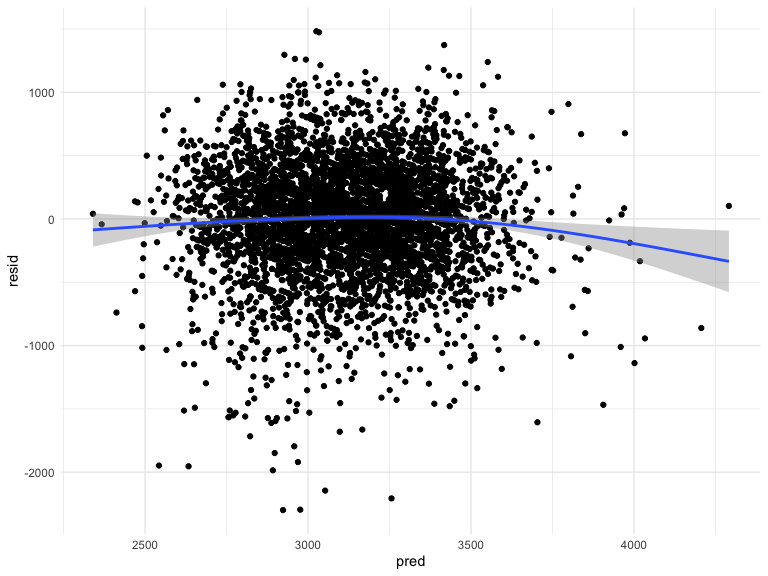
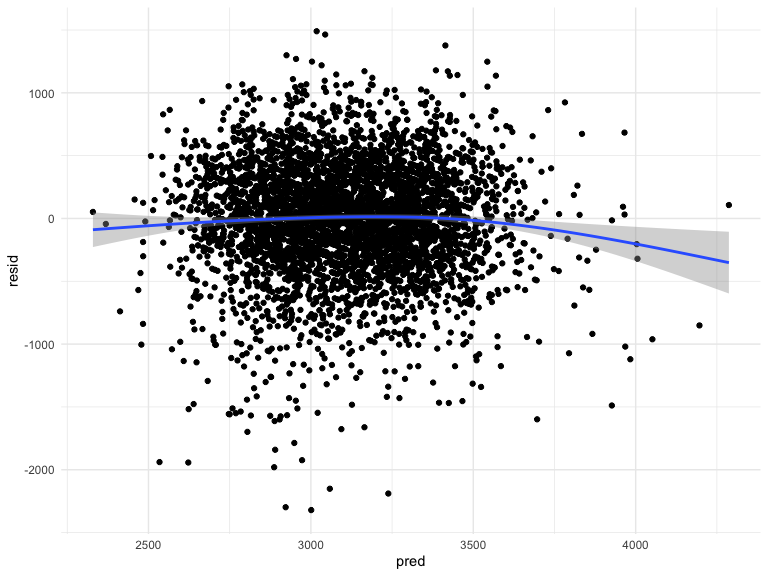
Problem 2

diff --git a/p8105_hw6_sl5009.md b/p8105_hw6_sl5009.md
@@ -101,71 +101,73 @@ summary(fit_0)
     ## F-statistic: 524.6 on 21 and 4320 DF,  p-value: < 2.2e-16
 
 ``` r
-fit_1 = lm(bwt ~ delwt + menarche + mheight + momage + mrace + smoken + wtgain + parity, data = birthweight_df)
+fit_1 = lm(bwt ~ delwt + menarche + fincome + mheight + momage + mrace + smoken + wtgain + parity, data = birthweight_df)
 summary(fit_1)
 ```
 
     ## 
     ## Call:
-    ## lm(formula = bwt ~ delwt + menarche + mheight + momage + mrace + 
-    ##     smoken + wtgain + parity, data = birthweight_df)
+    ## lm(formula = bwt ~ delwt + menarche + fincome + mheight + momage + 
+    ##     mrace + smoken + wtgain + parity, data = birthweight_df)
     ## 
     ## Residuals:
     ##      Min       1Q   Median       3Q      Max 
-    ## -2299.04  -254.35    20.92   298.27  1482.60 
+    ## -2321.11  -253.72    19.88   296.77  1490.11 
     ## 
     ## Coefficients:
     ##                    Estimate Std. Error t value Pr(>|t|)    
-    ## (Intercept)       1330.2347   191.8528   6.934 4.71e-12 ***
-    ## delwt                4.3133     0.3863  11.166  < 2e-16 ***
-    ## menarche            -4.8334     4.7805  -1.011 0.312036    
-    ## mheight             17.2433     2.9589   5.828 6.03e-09 ***
-    ## momage               4.1406     1.9672   2.105 0.035363 *  
-    ## mraceBlack        -265.8683    71.3360  -3.727 0.000196 ***
-    ## mracePuerto Rican  -67.2740    75.8915  -0.886 0.375425    
-    ## mraceWhite          74.5246    70.6195   1.055 0.291348    
-    ## smoken             -12.1372     0.9578 -12.672  < 2e-16 ***
-    ## wtgain               7.7928     0.7086  10.997  < 2e-16 ***
-    ## parity             -34.7375    66.7017  -0.521 0.602541    
+    ## (Intercept)       1342.1583   192.0008   6.990 3.16e-12 ***
+    ## delwt                4.3281     0.3864  11.202  < 2e-16 ***
+    ## menarche            -4.4493     4.7870  -0.929 0.352707    
+    ## fincome              0.4333     0.2963   1.462 0.143707    
+    ## mheight             16.8977     2.9679   5.693 1.33e-08 ***
+    ## momage               3.4912     2.0164   1.731 0.083457 .  
+    ## mraceBlack        -265.1003    71.3285  -3.717 0.000204 ***
+    ## mracePuerto Rican  -67.5719    75.8818  -0.890 0.373253    
+    ## mraceWhite          67.9757    70.7521   0.961 0.336727    
+    ## smoken             -12.1012     0.9580 -12.632  < 2e-16 ***
+    ## wtgain               7.7877     0.7085  10.991  < 2e-16 ***
+    ## parity             -31.1449    66.7382  -0.467 0.640757    
     ## ---
     ## Signif. codes:  0 '***' 0.001 '**' 0.01 '*' 0.05 '.' 0.1 ' ' 1
     ## 
-    ## Residual standard error: 451.2 on 4331 degrees of freedom
-    ## Multiple R-squared:  0.2256, Adjusted R-squared:  0.2238 
-    ## F-statistic: 126.2 on 10 and 4331 DF,  p-value: < 2.2e-16
+    ## Residual standard error: 451.2 on 4330 degrees of freedom
+    ## Multiple R-squared:  0.226,  Adjusted R-squared:  0.224 
+    ## F-statistic: 114.9 on 11 and 4330 DF,  p-value: < 2.2e-16
 
 ``` r
-fit_2 = lm(bwt ~ delwt + menarche + mheight + momage + mrace + smoken + wtgain, data = birthweight_df)
+fit_2 = lm(bwt ~ delwt + menarche + fincome + mheight + momage + mrace + smoken + wtgain, data = birthweight_df)
 summary(fit_2)
 ```
 
     ## 
     ## Call:
-    ## lm(formula = bwt ~ delwt + menarche + mheight + momage + mrace + 
-    ##     smoken + wtgain, data = birthweight_df)
+    ## lm(formula = bwt ~ delwt + menarche + fincome + mheight + momage + 
+    ##     mrace + smoken + wtgain, data = birthweight_df)
     ## 
     ## Residuals:
     ##      Min       1Q   Median       3Q      Max 
-    ## -2299.26  -254.30    20.92   298.23  1482.57 
+    ## -2321.04  -253.69    20.09   296.67  1490.17 
     ## 
     ## Coefficients:
     ##                    Estimate Std. Error t value Pr(>|t|)    
-    ## (Intercept)       1330.6799   191.8348   6.937 4.61e-12 ***
-    ## delwt                4.3156     0.3862  11.174  < 2e-16 ***
-    ## menarche            -4.8575     4.7798  -1.016 0.309573    
-    ## mheight             17.2650     2.9584   5.836 5.74e-09 ***
-    ## momage               4.0779     1.9633   2.077 0.037859 *  
-    ## mraceBlack        -266.5036    71.3195  -3.737 0.000189 ***
-    ## mracePuerto Rican  -67.6563    75.8816  -0.892 0.372655    
-    ## mraceWhite          74.1276    70.6095   1.050 0.293857    
-    ## smoken             -12.1358     0.9577 -12.672  < 2e-16 ***
-    ## wtgain               7.7847     0.7084  10.989  < 2e-16 ***
+    ## (Intercept)       1342.6970   191.9800   6.994 3.08e-12 ***
+    ## delwt                4.3304     0.3863  11.210  < 2e-16 ***
+    ## menarche            -4.4663     4.7865  -0.933 0.350812    
+    ## fincome              0.4384     0.2960   1.481 0.138757    
+    ## mheight             16.9131     2.9675   5.699 1.28e-08 ***
+    ## momage               3.4274     2.0116   1.704 0.088489 .  
+    ## mraceBlack        -265.6601    71.3120  -3.725 0.000198 ***
+    ## mracePuerto Rican  -67.9177    75.8714  -0.895 0.370746    
+    ## mraceWhite          67.5434    70.7396   0.955 0.339724    
+    ## smoken             -12.0995     0.9579 -12.632  < 2e-16 ***
+    ## wtgain               7.7804     0.7083  10.985  < 2e-16 ***
     ## ---
     ## Signif. codes:  0 '***' 0.001 '**' 0.01 '*' 0.05 '.' 0.1 ' ' 1
     ## 
-    ## Residual standard error: 451.2 on 4332 degrees of freedom
-    ## Multiple R-squared:  0.2256, Adjusted R-squared:  0.224 
-    ## F-statistic: 140.2 on 9 and 4332 DF,  p-value: < 2.2e-16
+    ## Residual standard error: 451.1 on 4331 degrees of freedom
+    ## Multiple R-squared:  0.226,  Adjusted R-squared:  0.2242 
+    ## F-statistic: 126.4 on 10 and 4331 DF,  p-value: < 2.2e-16
 
 We compare the full model with the plain model and then we drop the
 factor “parity”.
@@ -232,3 +234,100 @@ cv_df %>%
 <img src="p8105_hw6_sl5009_files/figure-gfm/unnamed-chunk-5-1.png" width="90%" />
 
 # Problem 2
+
+## Download data
+
+``` r
+weather_df = 
+  rnoaa::meteo_pull_monitors(
+    c("USW00094728"),
+    var = c("PRCP", "TMIN", "TMAX"), 
+    date_min = "2017-01-01",
+    date_max = "2017-12-31") %>%
+  mutate(
+    name = recode(id, USW00094728 = "CentralPark_NY"),
+    tmin = tmin / 10,
+    tmax = tmax / 10) %>%
+  select(name, id, everything())
+```
+
+    ## Registered S3 method overwritten by 'hoardr':
+    ##   method           from
+    ##   print.cache_info httr
+
+    ## using cached file: ~/Library/Caches/R/noaa_ghcnd/USW00094728.dly
+
+    ## date created (size, mb): 2021-10-05 10:48:47 (7.602)
+
+    ## file min/max dates: 1869-01-01 / 2021-10-31
+
+## Produce estimates
+
+``` r
+bootstrap = 
+  weather_df %>% 
+  modelr::bootstrap(n = 5000) %>% 
+  mutate(
+    models = map(strap, ~lm(tmax ~ tmin, data = .x)),
+    r_square = map(models, broom::glance),
+    log_estimate = map(models, broom::tidy)
+  ) %>% 
+  select(-strap, -models) %>% 
+  unnest(r_square) %>% 
+  select(.id, r.squared, log_estimate) %>% 
+  unnest(log_estimate) %>% 
+  select(-std.error, -statistic, -p.value) %>% 
+  mutate(term = recode(term, `(Intercept)` = "b0", tmin = "b1")) %>% 
+  pivot_wider(
+    names_from = term,
+    values_from = estimate
+  ) %>% 
+  mutate(log_value = log(b0*b1))  
+```
+
+## Plot the distribution
+
+``` r
+bootstrap %>% 
+  ggplot(aes(r.squared)) + 
+  geom_density()
+```
+
+<img src="p8105_hw6_sl5009_files/figure-gfm/unnamed-chunk-8-1.png" width="90%" />
+
+As we can see , the r.squared estimate are normally distibuted.
+
+``` r
+bootstrap %>% 
+  ggplot(aes(log_value)) + 
+  geom_density()
+```
+
+<img src="p8105_hw6_sl5009_files/figure-gfm/unnamed-chunk-9-1.png" width="90%" />
+The log\_value are also normally distributed.
+
+## Provide a 95% confidence interval
+
+``` r
+bootstrap %>% 
+  summarize(
+    ci_lower = quantile(r.squared, 0.025), 
+    ci_upper = quantile(r.squared, 0.975)) %>%
+    knitr::kable(digits = 2)
+```
+
+| ci\_lower | ci\_upper |
+|----------:|----------:|
+|      0.89 |      0.93 |
+
+``` r
+bootstrap %>% 
+  summarize(
+    ci_lower = quantile(log_value, 0.025), 
+    ci_upper = quantile(log_value, 0.975)) %>%
+  knitr::kable(digits = 2)
+```
+
+| ci\_lower | ci\_upper |
+|----------:|----------:|
+|      1.97 |      2.06 |
